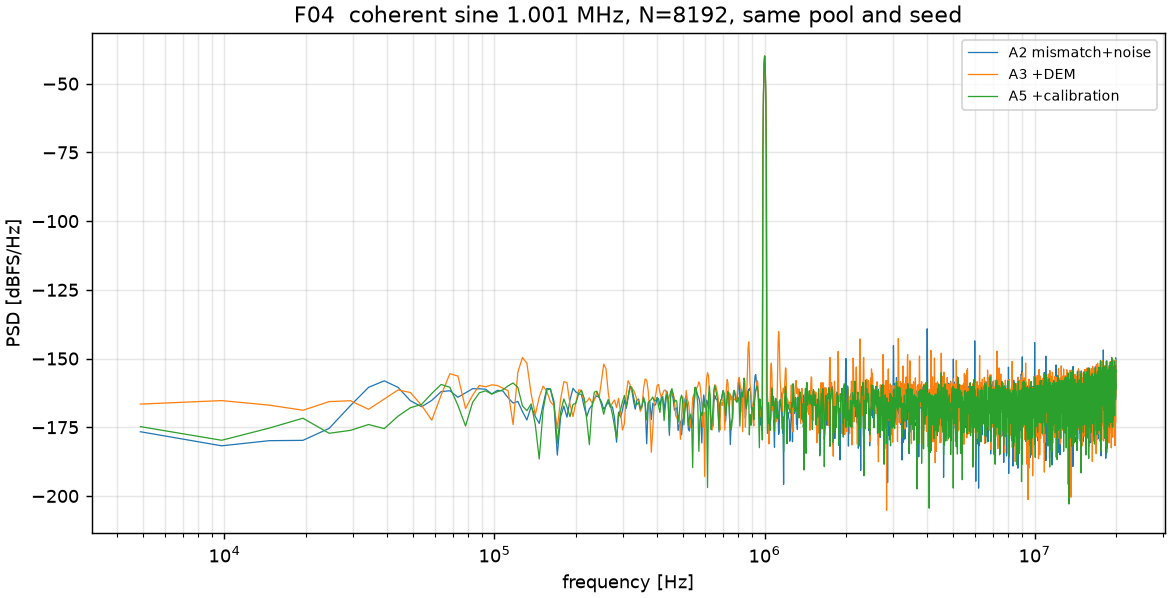
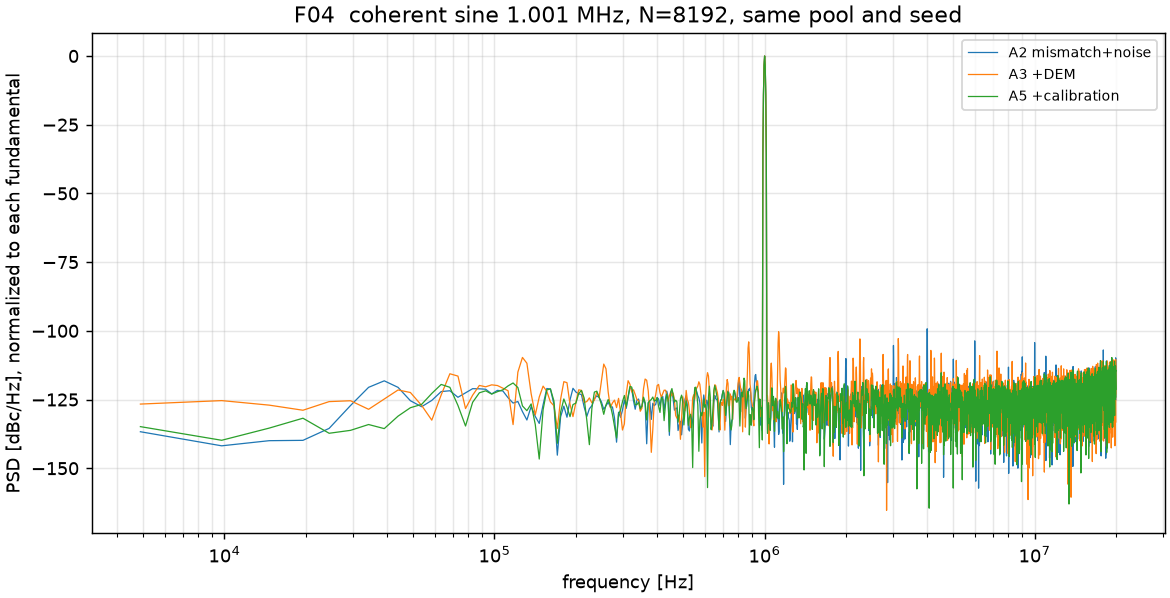
fix(figures): F04 归一化到各自基波（排除 DC bin），三曲线峰对齐 0 dBc
- 不归一化会把三者的有效增益差误读成噪声差；
- 实测三条曲线峰均在 1.001 MHz、0.0 dBc；2 MHz 以上中位底 A2 -124.6 / A3 -125.4 / A5 -124.6 dBc/Hz。
- 顺带说明：A3 的 NSD 更差（26.98 vs 20.91 nV/rtHz）主要来自低频段，2 MHz 以上底并不更高——
  这一点写进 figures/README 的 F04 条目，避免把'DEM 抬高全带噪声'说过头。

Changed region(s): [[0.0, 0.1204, 0.0923, 0.6321], [0.0, 0.6321, 0.0923, 0.8428]]

diff --git a/tools/run_review_figures.py b/tools/run_review_figures.py
@@ -233,7 +233,10 @@ def figure_psd(model, out: Path, *, n: int) -> dict:
         spec = metrics.power_spectral_density(voltage, FS_HZ)
         freq = np.asarray(spec["frequency_hz"])
         psd = np.asarray(spec["density_v2_hz"])
-        ax.semilogx(freq[1:], 10 * np.log10(psd[1:] / (V_FS**2 / 2)), lw=0.7, label=label)
+        # 每条曲线各自归一化到自己的基波：三者的有效增益不同（校准后重构增益略有差异），
+        # 不归一化会把"增益差"误读成"噪声差"。归一化后纵轴是 dBc/Hz。
+        reference = float(np.max(psd[1:]))  # 排除 DC bin
+        ax.semilogx(freq[1:], 10 * np.log10(psd[1:] / reference), lw=0.7, label=label)
         fitted = metrics.sine_fit_metrics(voltage, FS_HZ, fin)
         rows[label] = {
             "sndr_db": float(fitted["SNDR_dB"]),
@@ -241,7 +244,7 @@ def figure_psd(model, out: Path, *, n: int) -> dict:
             "nsd_nv": float(fitted["NSD_V_rtHz"]) * 1e9,
         }
     ax.set_xlabel("frequency [Hz]")
-    ax.set_ylabel("PSD [dBFS/Hz]")
+    ax.set_ylabel("PSD [dBc/Hz], normalized to each fundamental")
     ax.set_title(f"F04  coherent sine {fin/1e6:.3f} MHz, N={n}, same pool and seed")
     ax.grid(alpha=0.3, which="both")
     ax.legend(fontsize=8)
